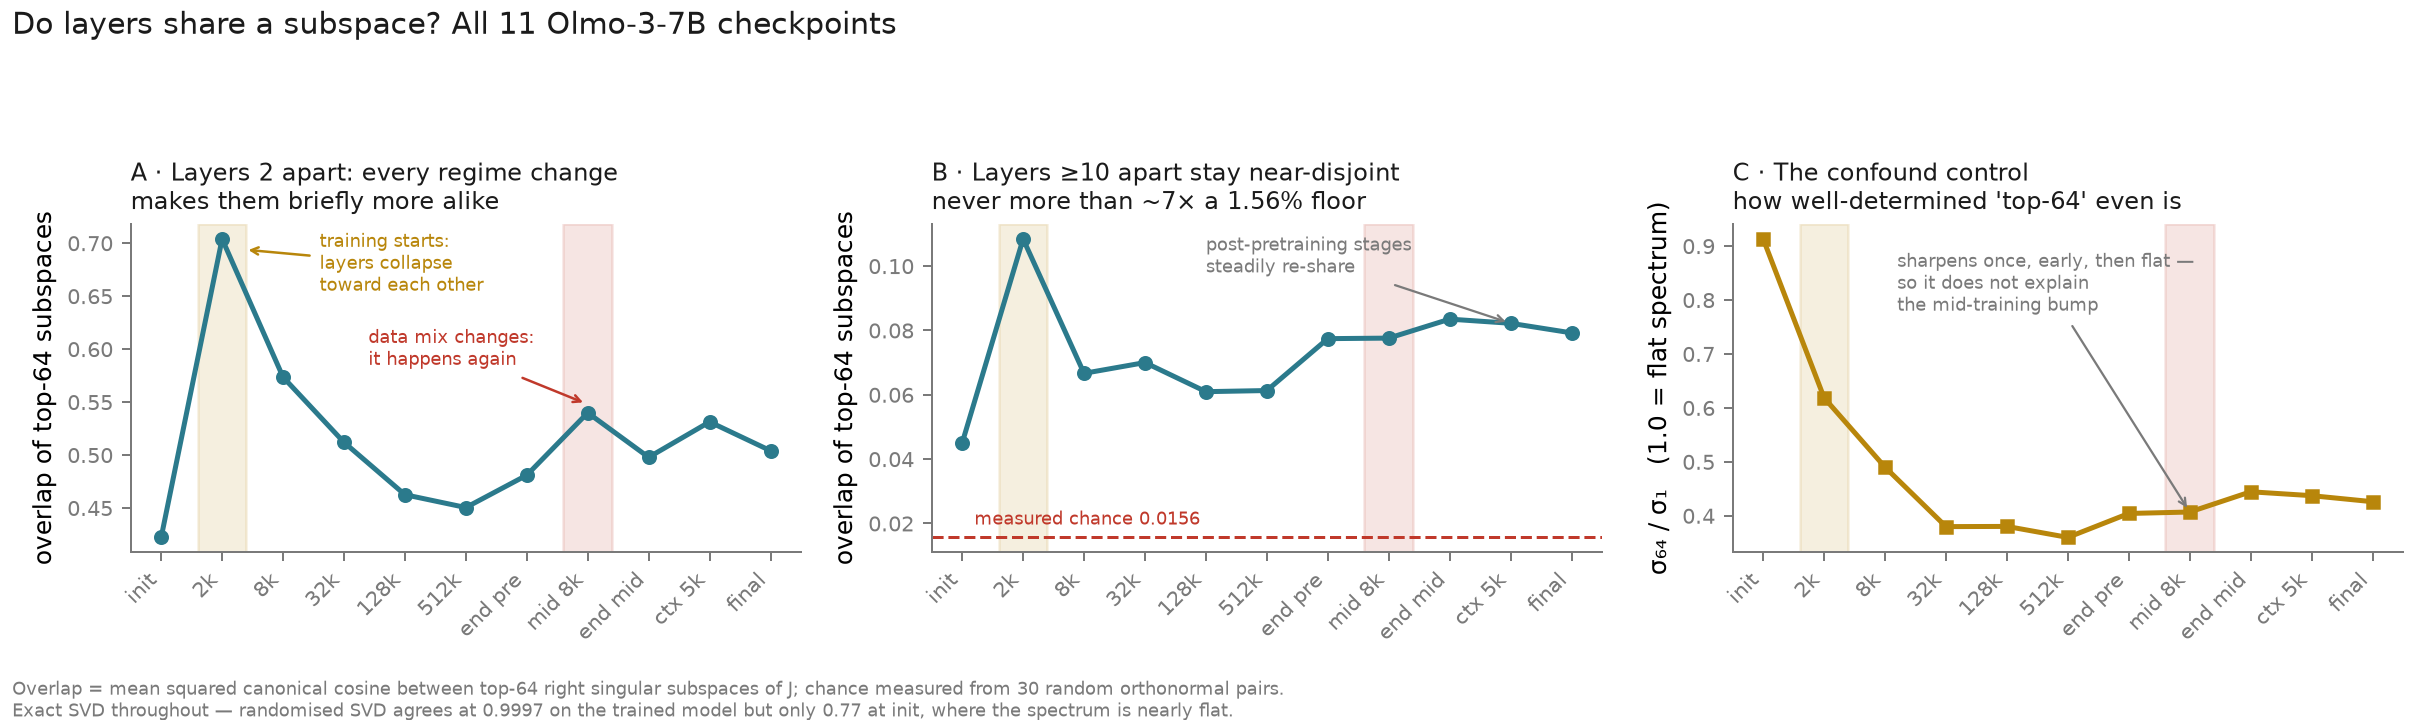
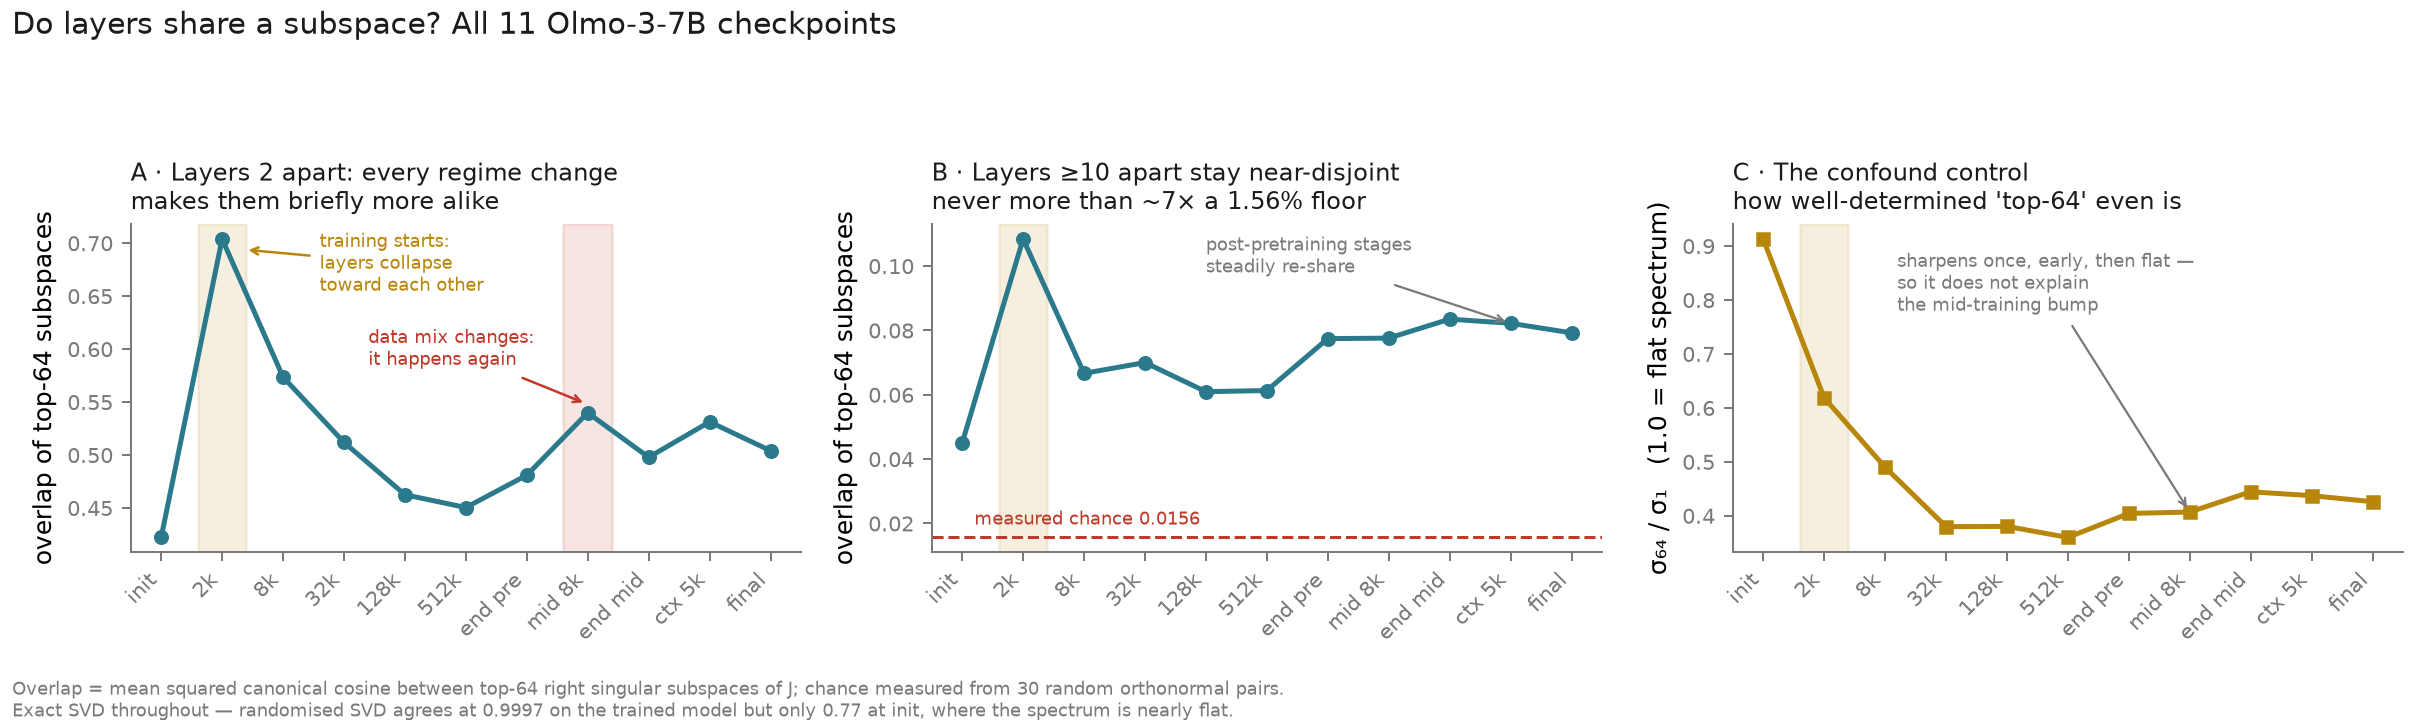
F8b: highlight the mid-training boundary in panel A only
The strip was repeated in all three panels, which implied the bump shows up in
each of them. It does not: panel B (layers >=10 apart) is flat across it and
panel C is the control that shows the spectrum does not move there. Marking it
once, where the effect actually is, and letting panel C's annotation point at the
unhighlighted position.

Changed region(s): [[0.8642, 0.3056, 0.9259, 0.7639], [0.5556, 0.3056, 0.5864, 0.7639]]

diff --git a/jlens/layer_subspaces_traj_fig.py b/jlens/layer_subspaces_traj_fig.py
@@ -55,7 +55,6 @@ def main():
     ax.axhline(chance, color=RED, ls="--", lw=1.2)
     ax.text(.2, chance + .004, f"measured chance {chance:.4f}", fontsize=7.2, color=RED)
     ax.axvspan(spike - .4, spike + .4, color=GOLD, alpha=.13, zorder=0)
-    ax.axvspan(dip - .4, dip + .4, color=RED, alpha=.13, zorder=0)
     ax.annotate("post-pretraining stages\nsteadily re-share",
                 xy=(len(labels) - 2, far[-2]), xytext=(4.0, .098),
                 fontsize=7.2, color=MUTED,
@@ -69,7 +68,6 @@ def main():
     ax = axes[2]
     ax.plot(list(x), flat, "s-", color=GOLD, lw=2, ms=4.5)
     ax.axvspan(spike - .4, spike + .4, color=GOLD, alpha=.13, zorder=0)
-    ax.axvspan(dip - .4, dip + .4, color=RED, alpha=.13, zorder=0)
     ax.annotate("sharpens once, early, then flat —\nso it does not explain\nthe mid-training bump",
                 xy=(dip, flat[dip]), xytext=(2.2, .78), fontsize=7.2, color=MUTED,
                 arrowprops=dict(arrowstyle="->", color=MUTED, lw=.9))
